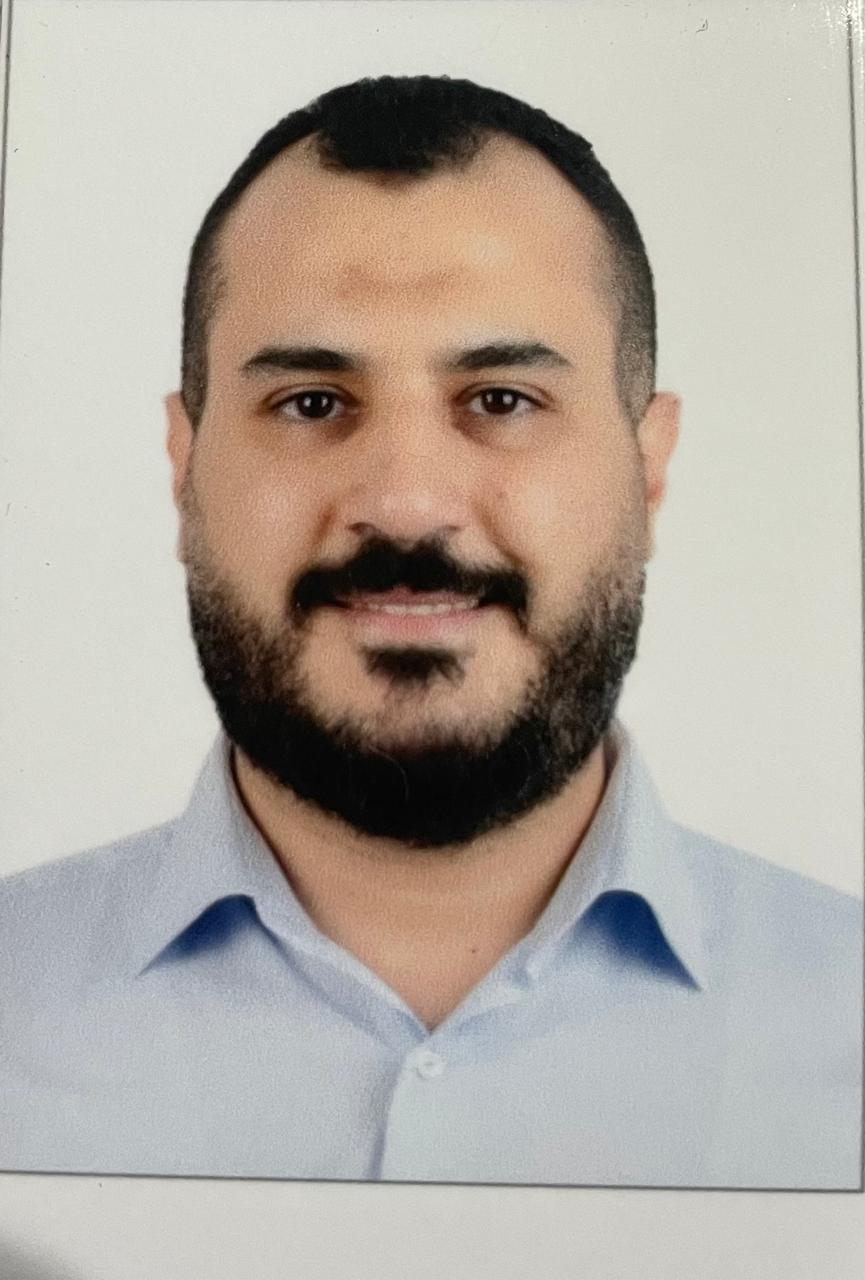
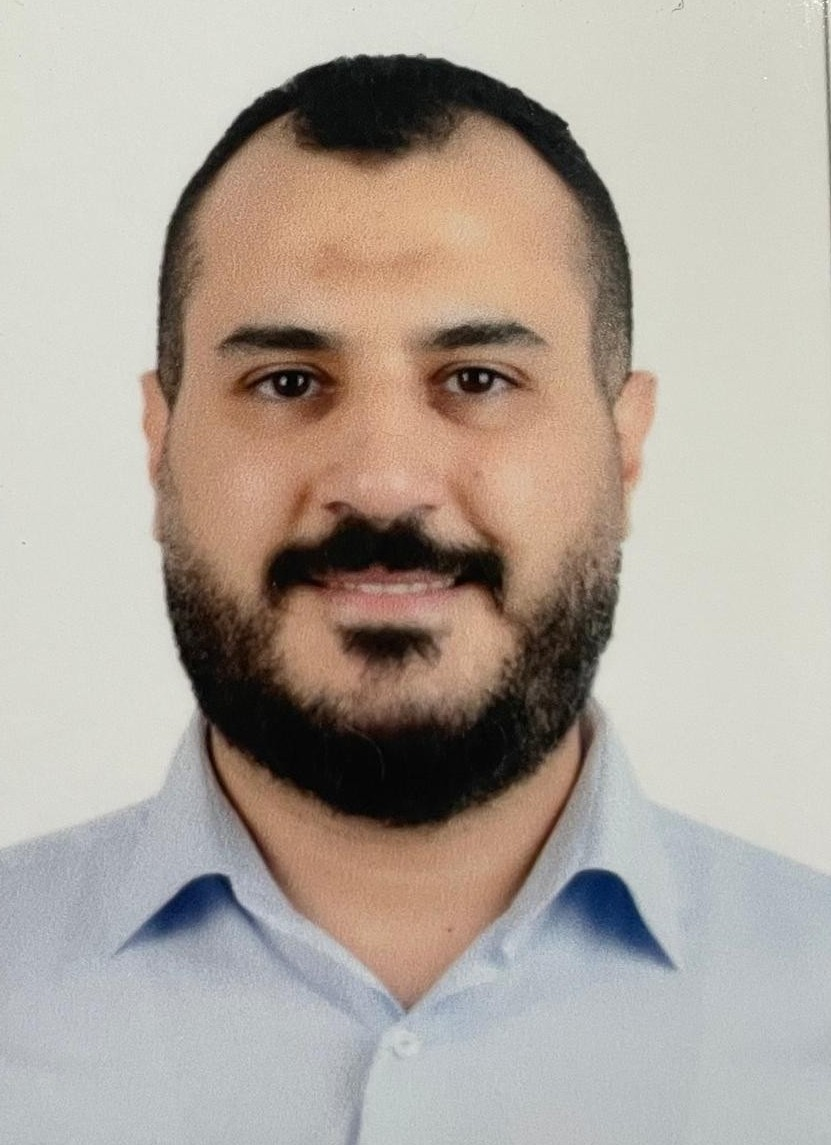
new changes

diff --git a/index.html b/index.html
@@ -79,9 +79,11 @@ nav ul li a:hover{
     width:320px;
     height:320px;
     object-fit:cover;
+    object-position: center 8%;
     border-radius:12px;
     border:6px solid #38bdf8;
     box-shadow:0 0 25px rgba(56,189,248,.5);
+    margin-top:-100px;
 }
 
 .hero-content{
@@ -339,7 +341,7 @@ and Alertmanager for infrastructure visibility.
 <h2 class="section-title">Contact</h2>
 
 <p><strong>Email:</strong> Mohamedsobh@ymail.com</p>
-
+<p><strong>Mobile:</strong> 01006883626</p>
 <p><strong>Location:</strong> Cairo, Egypt</p>
 
 <div class="social">
@@ -351,7 +353,7 @@ LinkedIn
 <a href="https://github.com/msob7" target="_blank">
 GitHub
 </a>
-<p><strong>Mobile:</strong> 01006883626</p>
+
 
 </div>
 
